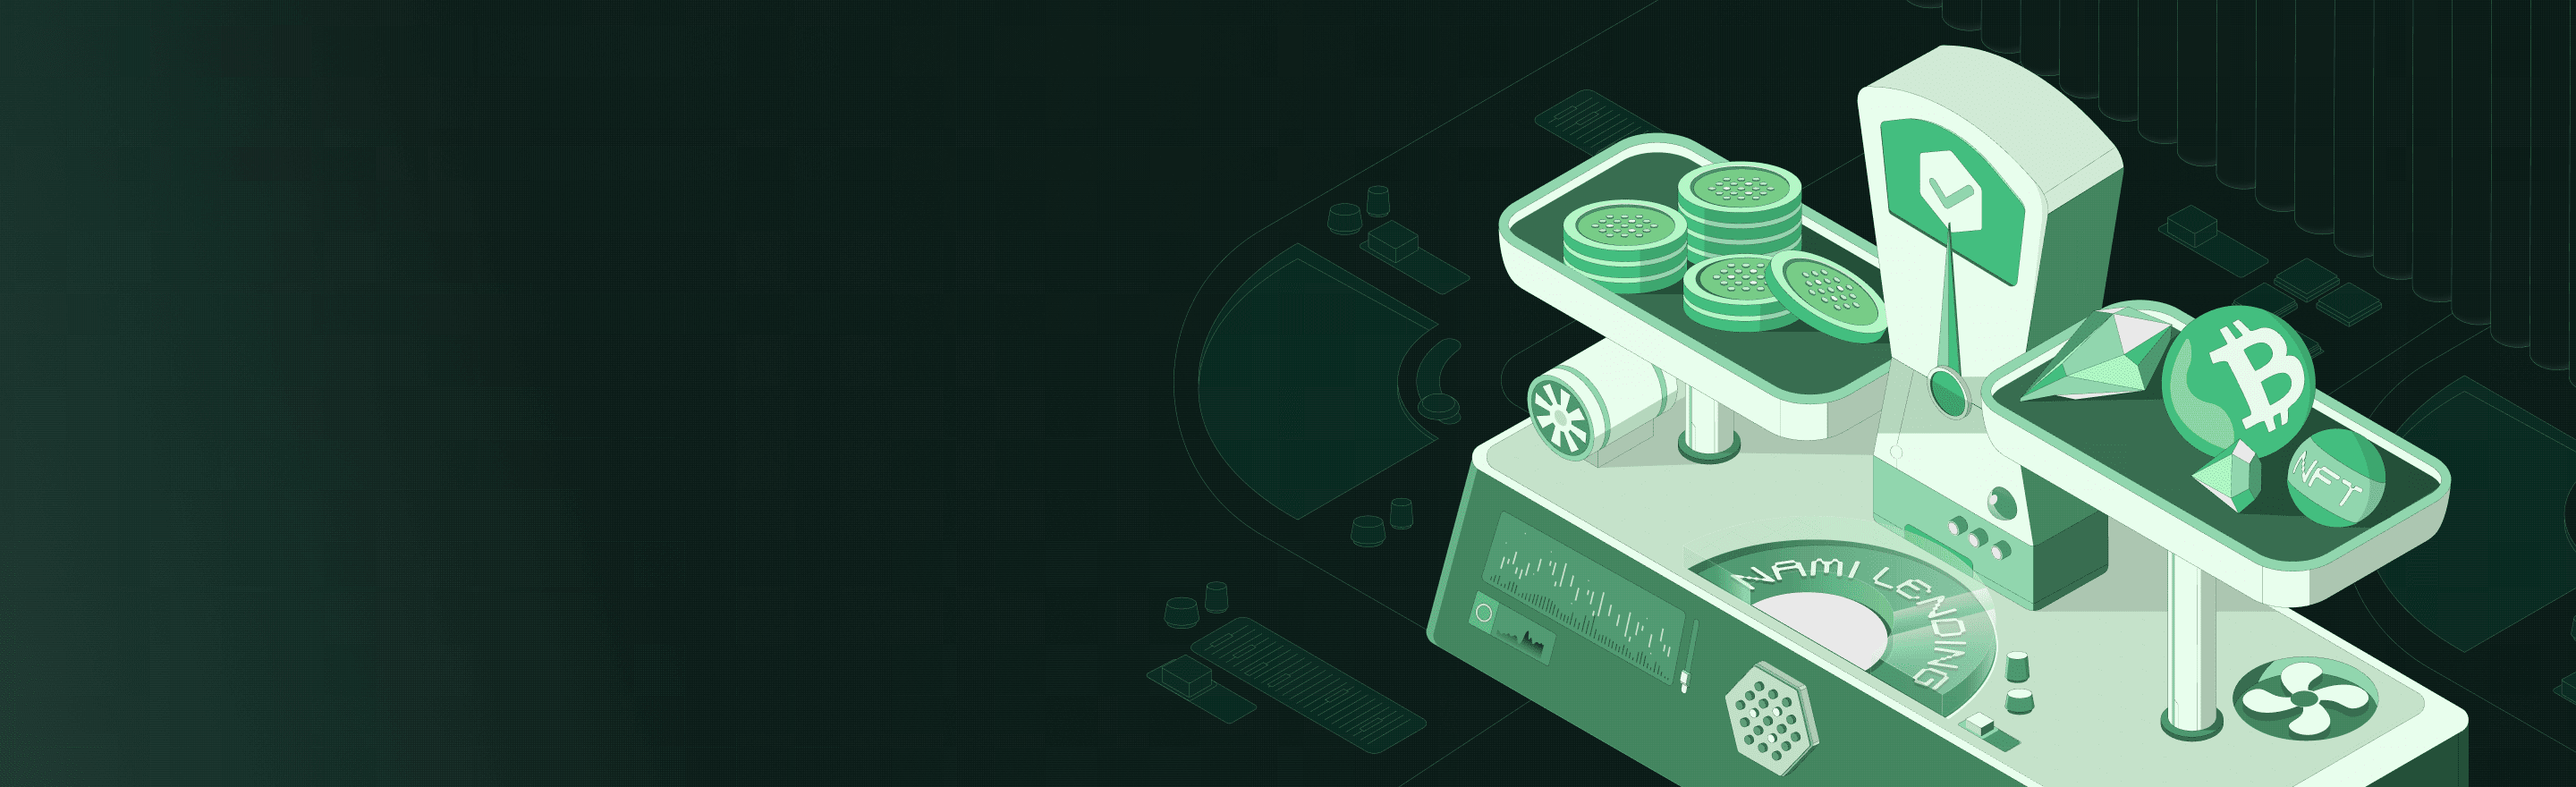
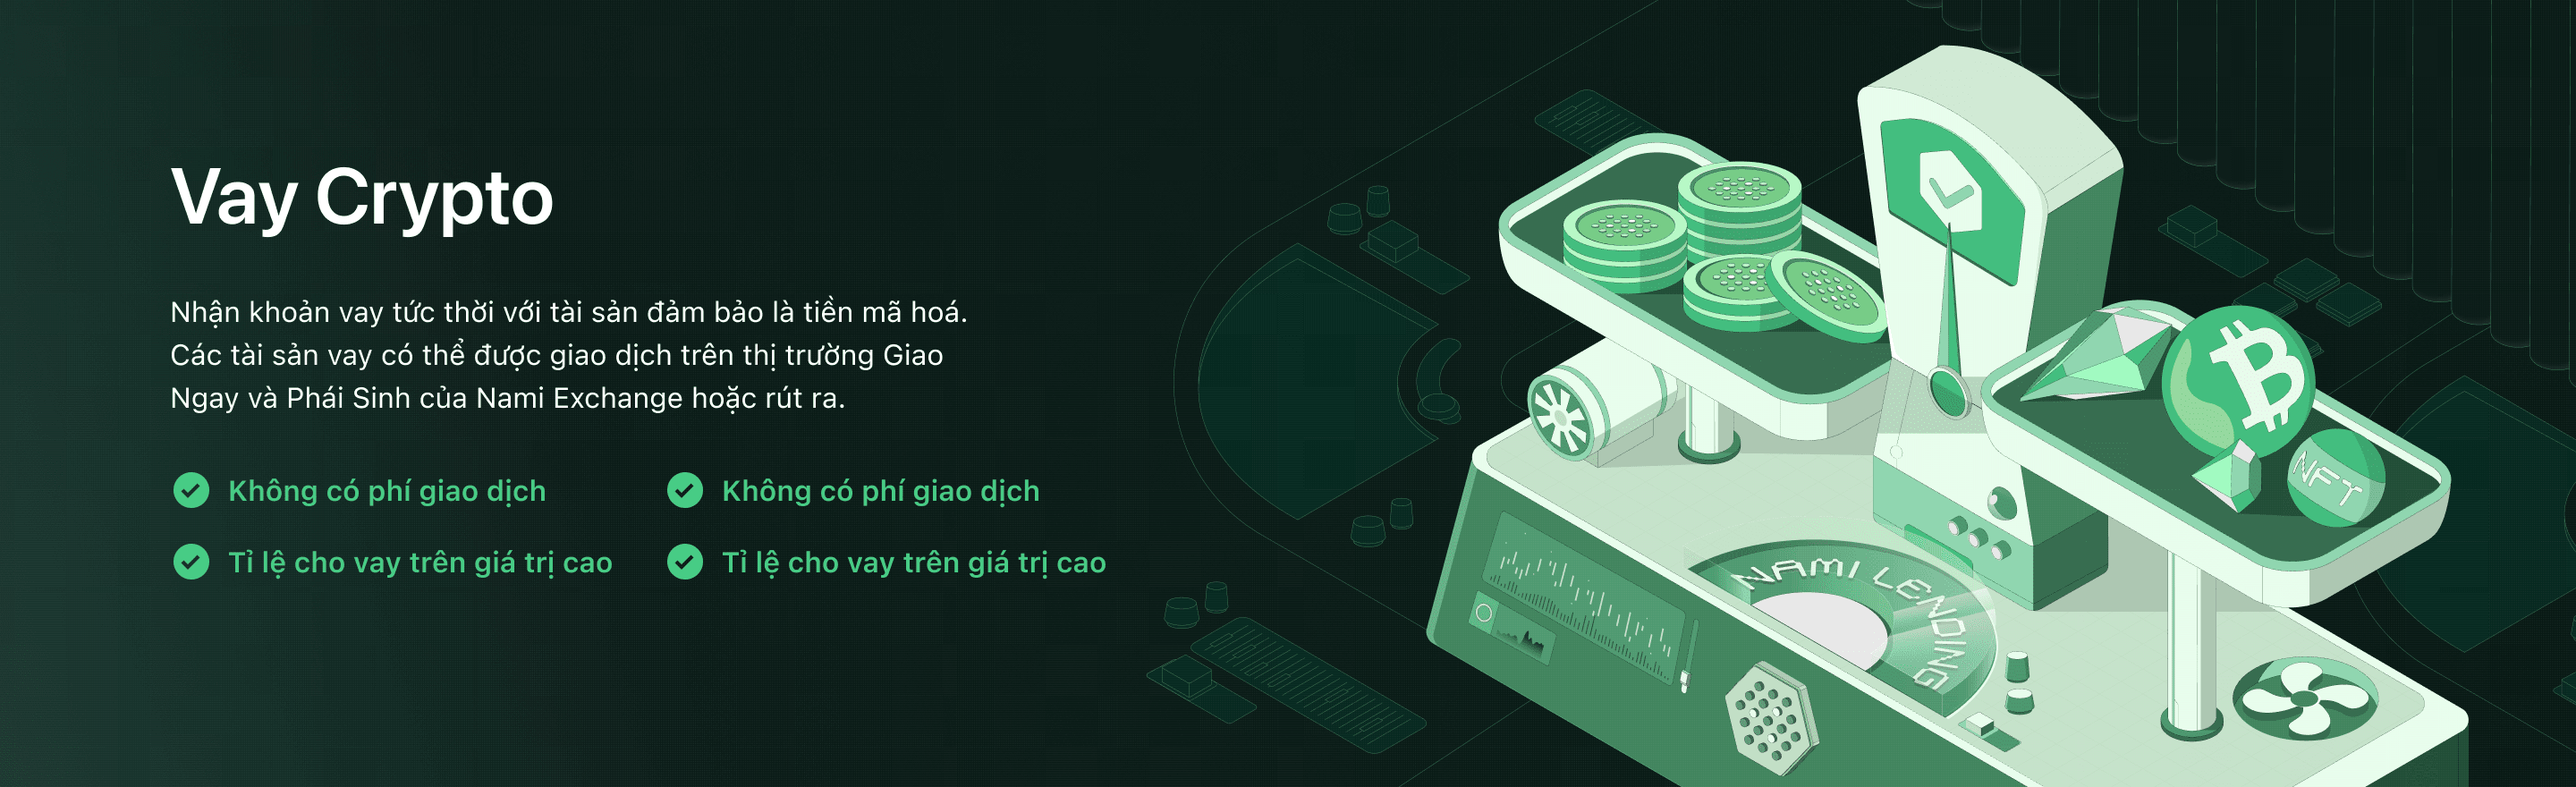
fix bug

diff --git a/src/components/screens/Lending/Header.js b/src/components/screens/Lending/Header.js
@@ -2,17 +2,6 @@
 import Image from 'next/image';
 import { useTranslation } from 'next-i18next';
 
-// ** SVG
-import CheckCircle from 'components/svg/CheckCircle';
-
-const CONTENT = [
-    { title: { vi: 'Không có phí giao dịch', en: 'không có phí giao dịch' } },
-    { title: { vi: 'Không có phí giao dịch', en: 'không có phí giao dịch' } },
-    { title: { vi: 'Tỉ lệ cho vay trên giá trị cao', en: 'Tỉ lệ cho vay trên giá trị cao' } },
-    { title: { vi: 'Tỉ lệ cho vay trên giá trị cao', en: 'Tỉ lệ cho vay trên giá trị cao' } }
-];
-
-// max-w-screen-v3
 const HeaderLending = () => {
     const {
         t,
@@ -21,22 +10,6 @@ const HeaderLending = () => {
     return (
         <section className="relative">
             <Image width={1440} height={440} sizes="100vw" src="/images/lending/header.png" objectFit="contain" />
-            <section className="max-w-screen-v3 2xl:max-w-screen-xxl m-auto">
-                <section className="absolute top-[80px]">
-                    <h1 className="text-6xl font-semibold text-white">{t('lending:header:title')}</h1>
-                    <h2 className="text-base text-white w-[460px] mt-6 mb-7">{t('lending:header:des')}</h2>
-                    <section className="grid grid-cols-2 gap-x-[30px] gap-y-[16px]">
-                        {CONTENT.map((item, key) => {
-                            return (
-                                <section className="flex flex-row items-center gap-2" key={`header_${key}_${item.title?.[language]}`}>
-                                    <CheckCircle size={24} />
-                                    <h3 className="text-teal text-base font-semibold">{item.title?.[language]}</h3>
-                                </section>
-                            );
-                        })}
-                    </section>
-                </section>
-            </section>
         </section>
     );
 };

diff --git a/src/components/screens/Lending/components/Loan/Table.js b/src/components/screens/Lending/components/Loan/Table.js
@@ -9,6 +9,7 @@ import Tooltip from 'components/common/Tooltip';
 import TableV2 from 'components/common/V2/TableV2';
 import AssetLogo from 'components/wallet/AssetLogo';
 import ButtonV2 from 'components/common/V2/ButtonV2/Button';
+import EmptyData from 'components/screens/Lending/EmptyData';
 
 // ** Utils
 import { substring } from 'utils';
@@ -20,7 +21,7 @@ import Copy from 'components/svg/Copy';
 import useDarkMode, { THEME_MODE } from 'hooks/useDarkMode';
 
 // ** Constants
-import { LOAN_HISTORY_STATUS, PERCENT, STATUS_CODE } from 'components/screens/Lending/constants';
+import { LIMIT, LOAN_HISTORY_STATUS, PERCENT, STATUS_CODE } from 'components/screens/Lending/constants';
 
 // ** Utils
 import FetchApi from 'utils/fetch-api';
@@ -50,9 +51,6 @@ import moment from 'moment-timezone';
 // ** dynamic
 const ModalAdjustMargin = dynamic(() => import('components/screens/Lending/components/Modal/Adjust/AdjustMargin'), { ssr: false });
 const ModalLoanRepayment = dynamic(() => import('components/screens/Lending/components/Modal/LoanRepayment'), { ssr: false });
-
-// ** Constants
-const LIMIT = 10;
 
 const INIT_DATA = {
     isModal: false
@@ -393,6 +391,9 @@ const LoanTable = ({ data, page, loading, onPage }) => {
                 scroll={{ x: true }}
                 className=""
                 data={data.result || []}
+                emptyDataCustom={
+                    data.result?.length === 0 && <EmptyData isDark={isDark} content="Không có lệnh cần thanh toán" textBtn="Vay Crypto ngay" link="/lending" />
+                }
                 rowKey={(item) => `${item?.key}`}
                 pagingClassName="!border-0 !py-8"
                 pagingPrevNext={{

diff --git a/src/components/screens/Lending/FAQ.js b/src/components/screens/Lending/FAQ.js
@@ -2,6 +2,7 @@ import React, { useMemo } from 'react';
 
 // ** NEXT
 import { useTranslation } from 'next-i18next';
+import Link from 'next/link';
 
 // ** components
 import CollapseV2 from 'components/common/V2/CollapseV2';
@@ -11,6 +12,7 @@ import colors from 'styles/colors';
 
 // ** CONSTANTS
 import { FAQ } from 'components/screens/Lending/constants';
+import Button from 'components/common/V2/ButtonV2/Button';
 
 const FQALending = ({ isDark }) => {
     const {
@@ -51,7 +53,12 @@ const FQALending = ({ isDark }) => {
     return (
         <section className="mt-20 pb-[120px]">
             <h2 className="text-6xl text-center font-semibold text-gray-15 dark:text-gray-4 mb-10">{t('lending:FAQ.title')}</h2>
-            <div className="dark:bg-dark-4 bg-white rounded-xl px-6 py-8">{renderFAQ}</div>
+            <div className="dark:bg-dark-4 bg-white rounded-xl px-6 py-8">
+                {renderFAQ}
+                <Button className="dark:!bg-dark-4 !bg-white dark:!text-green-2 !text-green-3 font-semibold">
+                    <Link href="#">Xem thêm</Link>
+                </Button>
+            </div>
         </section>
     );
 };

diff --git a/src/components/common/V2/TableV2/index.js b/src/components/common/V2/TableV2/index.js
@@ -23,6 +23,7 @@ const index = ({
     onRowClick,
     showPaging = true,
     textEmptyCustom,
+    emptyDataCustom = false,
     initPage,
     ...props
 }) => {
@@ -81,7 +82,13 @@ const index = ({
                 isNamiV2
                 height={height}
                 loading={loading}
-                emptyText={<NoData text={textEmptyCustom} loading={loading} isSearch={!!isSearch} className="!text-base" />}
+                emptyText={
+                    typeof emptyDataCustom === 'object' ? (
+                        emptyDataCustom
+                    ) : (
+                        <NoData text={textEmptyCustom} loading={loading} isSearch={!!isSearch} className="!text-base" />
+                    )
+                }
                 onRowClick={onRowClick}
                 {...props}
             />

diff --git a/src/components/screens/Lending/EmptyData.js b/src/components/screens/Lending/EmptyData.js
@@ -1,0 +1,19 @@
+//** */ Next
+import Link from 'next/link';
+
+// ** components
+import Button from 'components/common/V2/ButtonV2/Button';
+import { NoDataDarkIcon, NoDataLightIcon } from 'components/common/V2/TableV2/NoData';
+
+const EmptyData = ({ isDark, content, textBtn, link }) => {
+    return (
+        <section className="flex flex-col space-y-3 items-center justify-center">
+            {isDark ? <NoDataDarkIcon /> : <NoDataLightIcon />}
+            <span className="text-txtSecondary dark:text-darkBlue-5 text-sm sm:text-base">{content}</span>
+            <Button>
+                <Link href={link}>{textBtn}</Link>
+            </Button>
+        </section>
+    );
+};
+export default EmptyData;

diff --git a/src/components/screens/Lending/components/Lending/index.js b/src/components/screens/Lending/components/Lending/index.js
@@ -73,10 +73,11 @@ const Lending = () => {
     };
     return (
         <>
-            <section className="flex flex-row justify-between">
+            <section className="flex flex-row justify-between items-center">
                 <h3 className="dark:text-gray-4 text-gray-15 text-2xl font-semibold">{t('lending:crypto:lending:title')}</h3>
                 <section className="flex flex-row gap-4">
                     <InputV2
+                        className="!pb-0"
                         value={filter.search}
                         onChange={handleSearch}
                         classNameDivInner="bg-dark-12"

diff --git a/src/components/screens/Lending/constants/index.js b/src/components/screens/Lending/constants/index.js
@@ -85,8 +85,6 @@ const LTV = [
     { title: { vi: 'LTV thanh lý', en: 'Liquidation LTV' }, key: 'liquidate_ltv' }
 ];
 
-
-
 const HISTORY_TAB = [
     { title: { vi: 'Vay', en: 'Vay' }, key: 'loan' },
     { title: { vi: 'Thanh toán', en: 'Thanh toán' }, key: 'repay' },
@@ -106,7 +104,7 @@ const STATUS_EN = [
 ];
 
 const HOUR = 24;
-const LIMIT = 20;
+const LIMIT = 10;
 const YEAR = 365;
 const PERCENT = 100;
 const MILLISECOND = 1;
